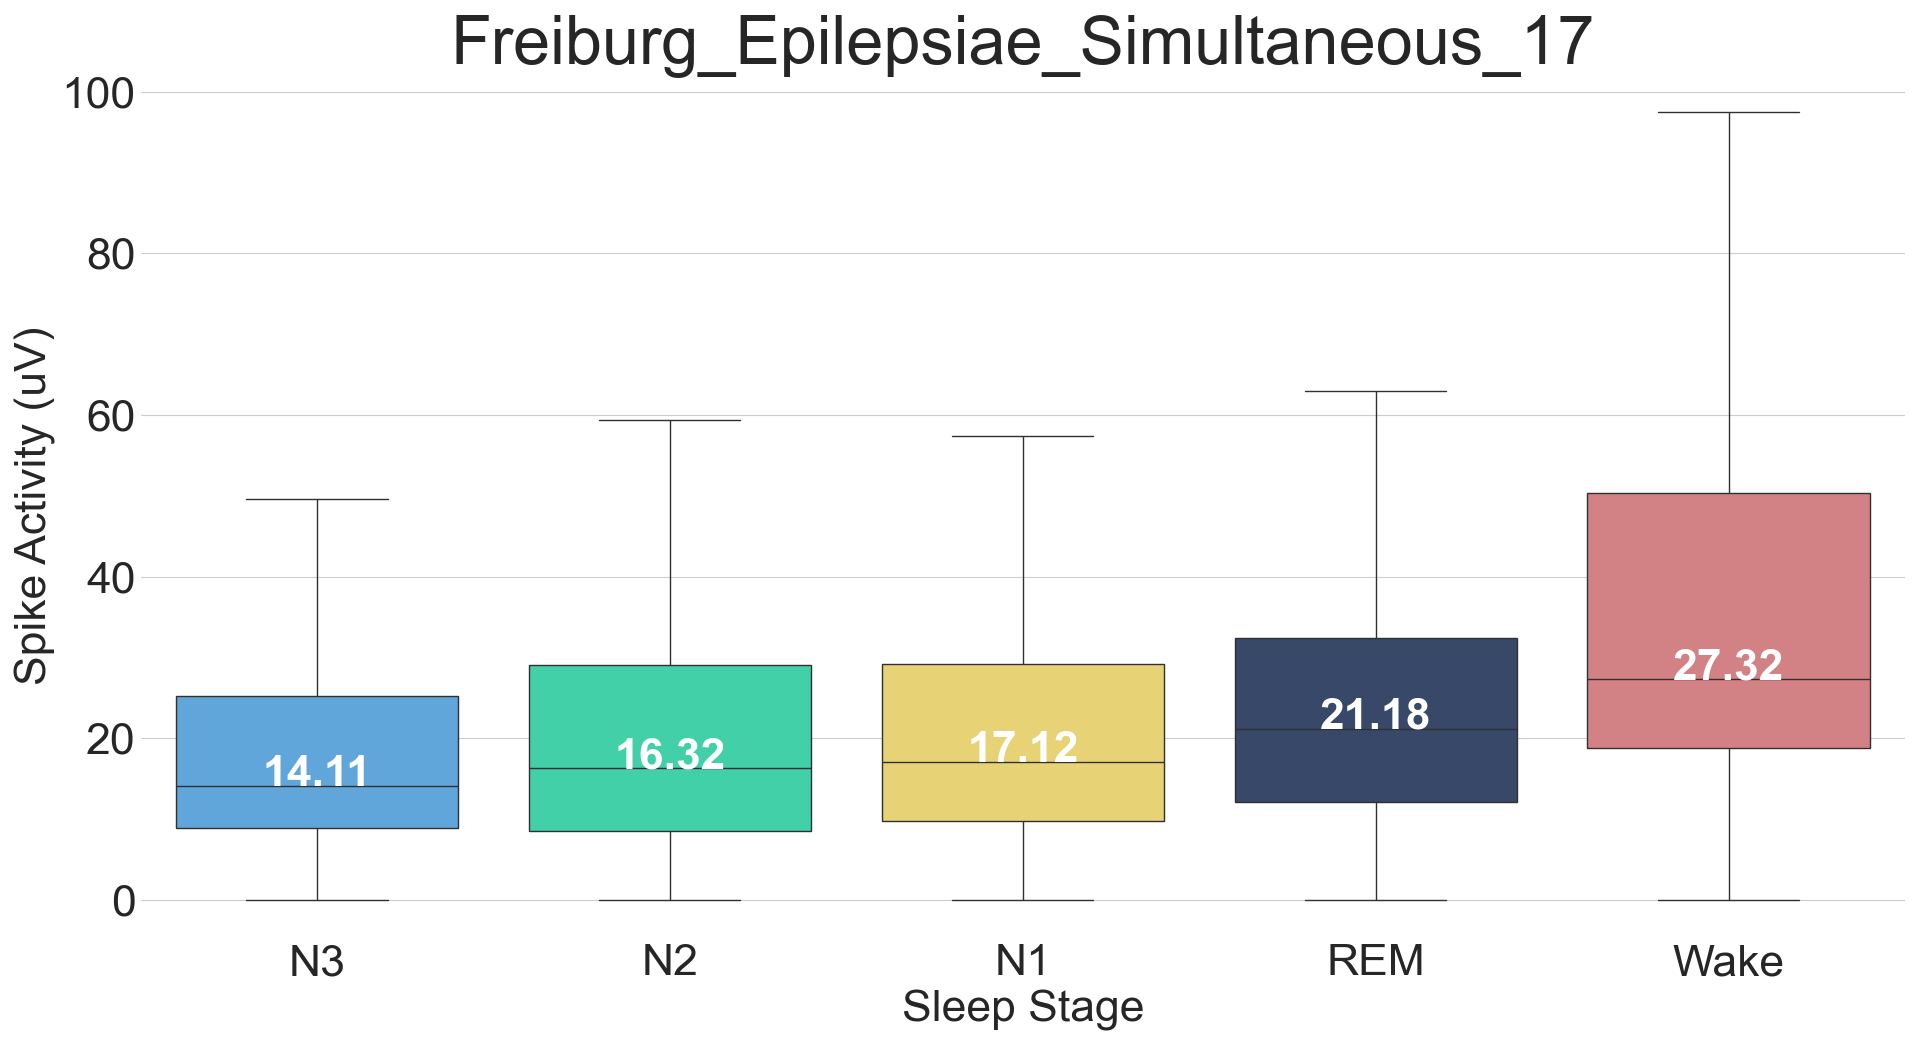
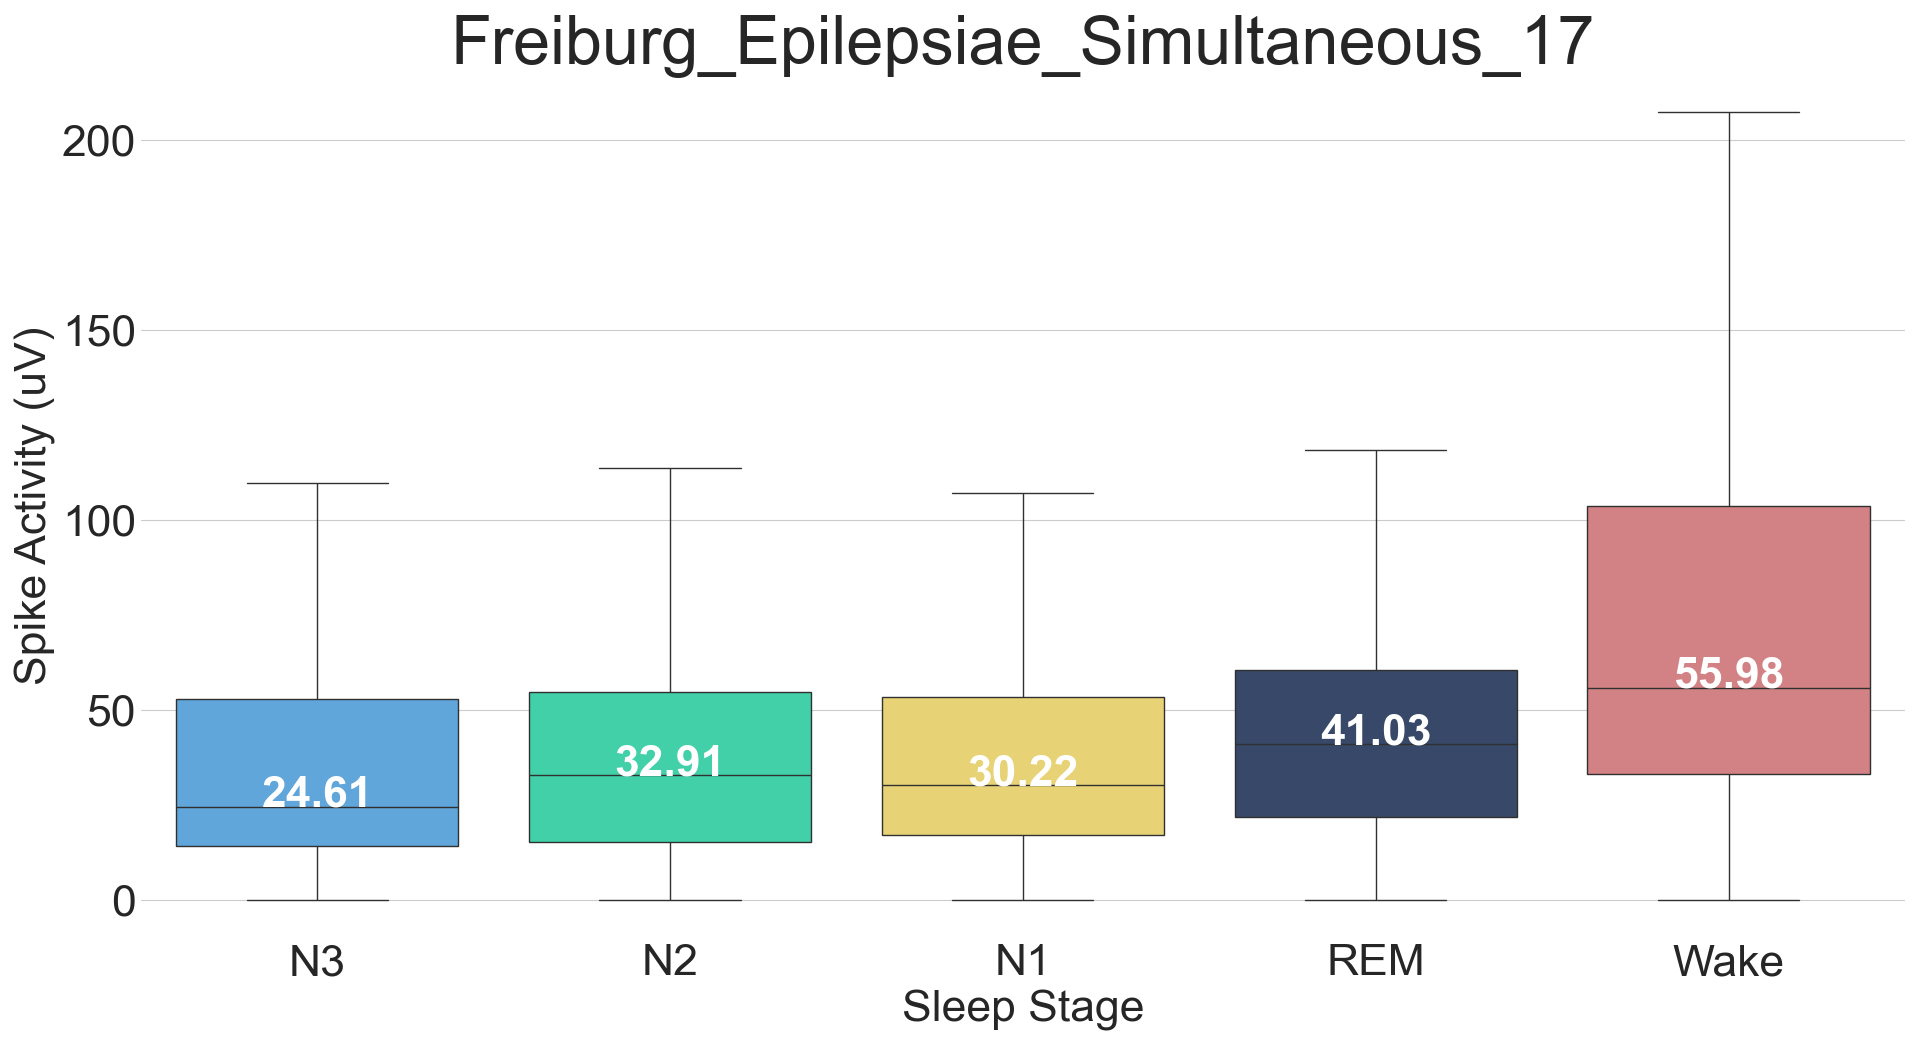
handle cases to avoid RAM overflow

diff --git a/pyeeg_toolbox/persyst/paper_spike_activity_analysis.py b/pyeeg_toolbox/persyst/paper_spike_activity_analysis.py
@@ -172,7 +172,7 @@ class Spike_Activity_Analyzer:
         scaled_spike_data_df = pd.DataFrame()
         for pdata_fn in pats_ls:
             pdata_df = spike_data_df[spike_data_df.Patient.str.fullmatch(pdata_fn, case=False)].reset_index(drop=True).copy()
-            pdata_df.Amplitude = MinMaxScaler().fit_transform(pdata_df.Amplitude.values.reshape(-1, 1)) # MinMaxScaler, StandardScaler()
+            pdata_df.Amplitude = StandardScaler().fit_transform(pdata_df.Amplitude.values.reshape(-1, 1)) # MinMaxScaler, StandardScaler()
             scaled_spike_data_df = pd.concat([scaled_spike_data_df, pdata_df])
 
         return scaled_spike_data_df
@@ -768,11 +768,10 @@ class Spike_Activity_Analyzer:
         plt.savefig(self.images_output_path / "Spike_Activity_Wilcoxon_Test_Results.png")
         plt.close()
 
-    def plot_group_sleep_stage_durations(self, stage_duration_spike_rate_df:pd.DataFrame=None):
+    def plot_group_sleep_stage_durations_piechart(self, stage_duration_spike_rate_df:pd.DataFrame=None):
         nr_pats = len(stage_duration_spike_rate_df.PatID.unique())
 
-        #sleep_ref_img_path = Path("C:\\Users\\HFO\\Development\\pyeeg_toolbox\\pyeeg_toolbox\\persyst\\SleepStages_Reference.png")
-        sleep_ref_img_path = os.getcwd()+'/pyeeg_toolbox/persyst/SleepStages_Reference.png'
+        sleep_ref_img_path = Path.cwd()/'pyeeg_toolbox/persyst/SleepStages_Reference.png'
         sleep_ref_img= Image.open(sleep_ref_img_path)
         rsz_ratio = 2
         img_rsz = (int(sleep_ref_img.size[0]/rsz_ratio), int(sleep_ref_img.size[1]/rsz_ratio))
@@ -811,6 +810,65 @@ class Spike_Activity_Analyzer:
         plt.savefig(self.images_output_path / "Duration_Of_Sleep_Stages.png")
         #plt.waitforbuttonpress()
         plt.close()
+
+    def plot_group_sleep_stage_durations_barchart(self, stage_duration_spike_rate_orig_df:pd.DataFrame=None):
+        
+        nr_pats = len(stage_duration_spike_rate_orig_df.PatID.unique())
+
+        fig, all_axs = plt.subplots(1, 2, figsize=FIGSIZE)
+        
+        stage_duration_spike_rate_df = stage_duration_spike_rate_orig_df.copy()
+        axs = all_axs[0]
+        to_plot_stage_names = ['N3', 'N2', 'N1', 'REM']
+        stage_duration_spike_rate_df['StageDurH'] = stage_duration_spike_rate_df.StageDurM / 60.0 # convert to hours
+        to_plot_stage_sel = stage_duration_spike_rate_df.Stage.isin(to_plot_stage_names)
+        stage_duration_spike_rate_df = stage_duration_spike_rate_df[to_plot_stage_sel].reset_index(drop=True).copy()
+        to_plot_stages_colors = [self.stages_colors[k] for k in to_plot_stage_names]
+        assert nr_pats == len(stage_duration_spike_rate_df.PatID.unique()), "More than one entry per patient"
+        bp_ax = sns.barplot(data=stage_duration_spike_rate_df, x='Stage', y='StageDurH', hue='Stage', palette=to_plot_stages_colors, ax=axs,
+            capsize=.2,
+            errorbar='sd',
+            err_kws={'color': 'k', "linestyle":'dashed', "linewidth": 2, "alpha": 0.6},
+            linewidth=1, edgecolor=".5", width=0.5, gap=0.1
+            )
+        for cont in bp_ax.containers:
+            plt.bar_label(cont, fmt='%.2f', fontsize=32, label_type='edge', padding=3, color='black', weight='bold')
+        axs.set_ylabel("Spikes / electrode / min.", fontsize=32)
+        axs.set_xlabel("Sleep Stage", fontsize=32)
+        plt.xticks(fontsize=32)
+        plt.yticks(fontsize=32)
+
+
+        axs = all_axs[1]
+        to_plot_stage_names = ['N2', 'N1', 'REM', 'Wake']
+        stage_duration_spike_rate_df = stage_duration_spike_rate_orig_df.copy()
+        stage_duration_spike_rate_df['StageDurH'] = stage_duration_spike_rate_df.StageDurM / 60.0 # convert to hours
+        to_plot_stage_sel = stage_duration_spike_rate_df.Stage.isin(to_plot_stage_names)
+        stage_duration_spike_rate_df = stage_duration_spike_rate_df[to_plot_stage_sel].reset_index(drop=True).copy()
+        to_plot_stages_colors = [self.stages_colors[k] for k in to_plot_stage_names]
+        assert nr_pats == len(stage_duration_spike_rate_df.PatID.unique()), "More than one entry per patient"
+        bp_ax = sns.barplot(data=stage_duration_spike_rate_df, x='Stage', y='StageDurH', hue='Stage', palette=to_plot_stages_colors, ax=axs,
+            capsize=.2,
+            errorbar='sd',
+            err_kws={'color': 'k', "linestyle":'dashed', "linewidth": 2, "alpha": 0.6},
+            linewidth=1, edgecolor=".5", width=0.5, gap=0.1
+            )
+        
+        for cont in bp_ax.containers:
+            plt.bar_label(cont, fmt='%.2f', fontsize=32, label_type='edge', padding=3, color='black', weight='bold')
+        axs.set_ylabel("Spikes / electrode / min.", fontsize=32)
+        axs.set_xlabel("Sleep Stage", fontsize=32)
+        plt.xticks(fontsize=32)
+        plt.yticks(fontsize=32)
+
+        plt.suptitle(f"{self.study_name}", fontsize=48)
+
+        plt.get_current_fig_manager().full_screen_toggle()
+        plt.tight_layout()
+        plt.savefig(self.images_output_path / "Average_Spike_OccRate.png")
+        #plt.waitforbuttonpress()
+        plt.close()
+        
 
     def plot_individual_sleep_stage_durations(self, stage_duration_spike_rate_df:pd.DataFrame=None):
 
@@ -1137,7 +1195,7 @@ if __name__ == "__main__":
 
     # Predict SOZ based on Spike Activity
     studies_ls =  [fr_ILAES2025_patients(), ACH_Pediatric_Patients_All()]
-    #studies_ls =  [ACH_Pediatric_Patients_All()]
+    studies_ls =  [fr_ILAES2025_patients()]
 
     prediction_results_ls = []
     for study in studies_ls:
@@ -1154,8 +1212,10 @@ if __name__ == "__main__":
 
         pats_ls = list(study.patients.keys())
 
-        characterization_datapath = Path("C:\\Users\\HFO\\Development\\pyeeg_toolbox\\Vectorized_WdwAn_Output\\Spike_Characterized_Channels")
-        stages_spikes_duration_rate_datapath = Path("C:\\Users\\HFO\\Development\\pyeeg_toolbox\\Vectorized_WdwAn_Output\\Stage_Spike_Occurrence_Rate")
+        pyeeg_output_path = Path("C:\\Users\\HFO\\Development\\pyeeg_toolbox\\Vectorized_WdwAn_Output")
+        pyeeg_output_path = Path("C:\\Users\\HFO\\Development\\pyeeg_toolbox\\Vectorized_WdwAn_Output_Polarity_Corrected")
+        characterization_datapath = pyeeg_output_path / "Spike_Characterized_Channels"
+        stages_spikes_duration_rate_datapath = pyeeg_output_path / "Stage_Spike_Occurrence_Rate"
 
         an_sleep_stages_ls = ['N3', 'N2', 'N1', 'REM', 'Wake']
         stages_colors = {'N1':(250,223,99), 'N2':(41,232,178), 'N3':(76,169,238), 'REM':(47,69,113), 'Wake':(224,115,120), 'Unknown':(128,128,128)}
@@ -1166,7 +1226,8 @@ if __name__ == "__main__":
 
         # Read and analyze sleep stages and spike occurrence rate data
         stage_duration_spike_rate_df = spike_analyzer.read_stages_duration_and_spike_rates()
-        spike_analyzer.plot_group_sleep_stage_durations(stage_duration_spike_rate_df)
+        #spike_analyzer.plot_group_sleep_stage_durations_piechart(stage_duration_spike_rate_df)
+        spike_analyzer.plot_group_sleep_stage_durations_barchart(stage_duration_spike_rate_df)
         spike_analyzer.plot_individual_sleep_stage_durations(stage_duration_spike_rate_df)
         spike_analyzer.plot_spike_occ_rate(stage_duration_spike_rate_df)
         spike_analyzer.analyze_spike_occ_rate_wake_sleep(stage_duration_spike_rate_df)

diff --git a/pyeeg_toolbox/persyst/an_avg_wdw_amplitude_vectorized.py b/pyeeg_toolbox/persyst/an_avg_wdw_amplitude_vectorized.py
@@ -203,13 +203,37 @@ class VectorizedAvgWdwAnalyzer(SpikeAmplitudeAnalyzer):
                     return     
 
         ni_th = 1
-        parral_jobs_nr = 16
-        Parallel(n_jobs=parral_jobs_nr)(delayed(self.get_channel_avg_wdw_vectorized)(this_eeg_fpath, mtg_t, force_recalc, ni_th=ni_th) for this_eeg_fpath in self.pat_files_ls)
+        parral_jobs_nr = -1
+        eeg_reader = EEG_IO(eeg_filepath=self.pat_files_ls[0], mtg_t=mtg_t)
+        eeg_fs = int(eeg_reader.fs)
 
-        #force_recalc = True
-        self.get_spike_occ_rate_by_sleep_stage(file_extension=file_extension, mtg_t=mtg_t, force_recalc=force_recalc)
+        if parral_jobs_nr != 1:
+            if eeg_fs > 256 and eeg_fs <= 512:
+                parral_jobs_nr = 16
+            elif eeg_fs > 512 and eeg_fs <= 1024:
+                parral_jobs_nr = 8
+            elif eeg_fs > 1024:
+                parral_jobs_nr = 4
 
-        self.get_overall_ch_stage_spike_amplitude(file_extension=file_extension, mtg_t=mtg_t)
+        try:
+            Parallel(n_jobs=parral_jobs_nr)(delayed(self.get_channel_avg_wdw_vectorized)(this_eeg_fpath, mtg_t, force_recalc, ni_th=ni_th) for this_eeg_fpath in self.pat_files_ls)
+
+            #force_recalc = True
+            self.get_spike_occ_rate_by_sleep_stage(file_extension=file_extension, mtg_t=mtg_t, force_recalc=force_recalc)
+
+            self.get_overall_ch_stage_spike_amplitude(file_extension=file_extension, mtg_t=mtg_t)
+        except Exception as e:
+            print(f"Error during parallel processing: {e}")
+
+            try:
+                parral_jobs_nr = 2
+                Parallel(n_jobs=parral_jobs_nr)(delayed(self.get_channel_avg_wdw_vectorized)(this_eeg_fpath, mtg_t, force_recalc, ni_th=ni_th) for this_eeg_fpath in self.pat_files_ls)
+                #force_recalc = True
+                self.get_spike_occ_rate_by_sleep_stage(file_extension=file_extension, mtg_t=mtg_t, force_recalc=force_recalc)
+                self.get_overall_ch_stage_spike_amplitude(file_extension=file_extension, mtg_t=mtg_t)
+            except Exception as e:
+                print(f"Error during fallback processing: {e}")
+                return
 
         return
 
@@ -408,7 +432,7 @@ class VectorizedAvgWdwAnalyzer(SpikeAmplitudeAnalyzer):
         spikes_center_sec_vec = spike_data_df['Time'].to_numpy()
         spikes_center_samples = (spikes_center_sec_vec*eeg_reader.fs).astype(int)
         spikes_start_samples = ((spikes_center_sec_vec-(spk_wdw_dur_s/2))*eeg_reader.fs).astype(int)
-        spikes_end_samples = ((spikes_center_sec_vec+(spk_wdw_dur_s/2))*eeg_reader.fs).astype(int)
+        spikes_end_samples = (spikes_start_samples + (spk_wdw_dur_s*eeg_reader.fs)).astype(int)
         
         # Delete invalid spike indices
         spikes_to_keep = np.logical_not(np.logical_or(spikes_start_samples<0, spikes_end_samples>=eeg_reader.n_samples))
@@ -475,13 +499,13 @@ class VectorizedAvgWdwAnalyzer(SpikeAmplitudeAnalyzer):
         """
 
         eeg_reader = EEG_IO(eeg_filepath=this_pat_eeg_fpath, mtg_t=mtg_t)
-        sig_wdw_fs = int(eeg_reader.fs)
+        sig_wdw_fs = eeg_reader.fs
         spike_cumulator_fn = self.output_path / f"CumulatedSpikes/{eeg_reader.filename.replace(".dat", '_AvgWdwCumulator.pickle')}"
         if not os.path.isfile(spike_cumulator_fn) or force_recalc:
             print(this_pat_eeg_fpath.name)
             sleep_stages_ls = list(self.sleep_stages_map.values())
             self.spike_cumulator = AvgWdwCumulator(eeg_channels_ls=eeg_reader.ch_names, sleep_stage_ls=sleep_stages_ls, sig_wdw_dur_s=1, sig_wdw_fs=sig_wdw_fs)
-            fs = int(eeg_reader.fs)
+            fs = eeg_reader.fs
             fs_us = self.spike_cumulator.get_undersampling_frequency()
 
             spike_wdw_indices, spk_df = self.get_detailed_spike_event(this_pat_eeg_fpath, eeg_reader)
@@ -503,6 +527,8 @@ class VectorizedAvgWdwAnalyzer(SpikeAmplitudeAnalyzer):
             undersampled_spike_wdws = np.zeros((len(eeg_reader.ch_names), nr_total_spikes, fs_us))
             for spike_idx, spike_locs in enumerate(zip(start_indices, end_indices)):
                 all_channs_spike_signal = eeg_reader.get_data(start=spike_locs[0], stop=spike_locs[1])
+
+                # under sample the spike signal to the desired frequency
                 for eeg_chi, ch_name in enumerate(eeg_reader.ch_names):
                     # Read the EEG segment containing a spike and undersample it
                     #undersampled_spike_wdws[eeg_chi, spike_idx] = self.undersample_signal(all_channs_spike_signal[eeg_chi], fs_us)
@@ -524,8 +550,7 @@ class VectorizedAvgWdwAnalyzer(SpikeAmplitudeAnalyzer):
                         stage_spike_wdws = undersampled_spike_wdws[eeg_chi][spike_wdw_sel_indices]
                         stage_spike_wdws = stage_spike_wdws * stage_spikes_polarity.reshape(-1, 1) # correct spike signals polarity
                         for spk_sig_idx, spike_sig in enumerate(stage_spike_wdws):
-                            spike_sig_remove_dc = spike_sig - np.mean(spike_sig)
-                            stage_spike_wdws[spk_sig_idx] = spike_sig_remove_dc
+                            stage_spike_wdws[spk_sig_idx] = spike_sig - np.mean(spike_sig)
                             pass
                         #stage_spike_wdws_abs = np.abs(stage_spike_wdws)
                         stage_spike_wdws_abs = stage_spike_wdws

diff --git a/studies_info.py b/studies_info.py
@@ -63,7 +63,6 @@ def fr_ILAES2025_patients():
 
     # Define the names of the folders in the data_path directory that contain the files from each patient. Define also the list of bad channels  
     study_info.patients = {
-        #'pat_FR_139':[''], # N1 duration is 0 within 48 hours
         'pat_FR_253':['HRC5', 'HP1', 'HP2', 'HP3'],
         'pat_FR_264':[''], # SOZ channels are renamed
         'pat_FR_273':[''], # SOZ channels are renamed
@@ -76,13 +75,14 @@ def fr_ILAES2025_patients():
         'pat_FR_590':[''],
         'pat_FR_862':[''],
         'pat_FR_916':[''],
-            # 'pat_FR_922':[''], #duration of 24 hours only
-            #'pat_FR_958':[''], # N1 duration is 0 within 48 hours
         'pat_FR_970':['GC1'], 
         'pat_FR_1073':[''],
         'pat_FR_1084':['M1', 'M2'], 
         'pat_FR_1096':['LDH1'],
         'pat_FR_1125':[''],
+        #'pat_FR_139':[''], # N1 duration is 0 within 48 hours
+            # 'pat_FR_922':[''], #duration of 24 hours only
+            #'pat_FR_958':[''], # N1 duration is 0 within 48 hours
         }
     
     return study_info

diff --git a/run.py b/run.py
@@ -69,7 +69,7 @@ if __name__ == "__main__":
     os.makedirs(output_path, exist_ok=True)
 
     studies_ls = [fr_ILAES2025_patients(), ACH_Pediatric_Patients(), ACH_Pediatric_Patients_Spike_Drive()]
-    studies_ls = [fr_ILAES2025_patients()]
+    studies_ls = [ACH_Pediatric_Patients(), ACH_Pediatric_Patients_Spike_Drive()]
     for study_info in studies_ls:
         print(f"Processing {study_info.dataset_name}...")
         #sleep_a_df = analyze_sleep_stages(study_info)

diff --git a/pyeeg_toolbox/eeg_io/eeg_io.py b/pyeeg_toolbox/eeg_io/eeg_io.py
@@ -82,7 +82,7 @@ class EEG_IO:
             raise ValueError('Invalid montage type. Supported types are sr, sb, ir, ib.')
 
         self.filename = self.eeg_hdr.filenames[0].split(os.path.sep)[-1]
-        self.fs = self.eeg_hdr.info["sfreq"]
+        self.fs = int(np.round(self.eeg_hdr.info["sfreq"]))
         self.ch_names = self.get_ch_names()[0]
         self.ch_indices = self.get_ch_names()[1]
         self.data = []
